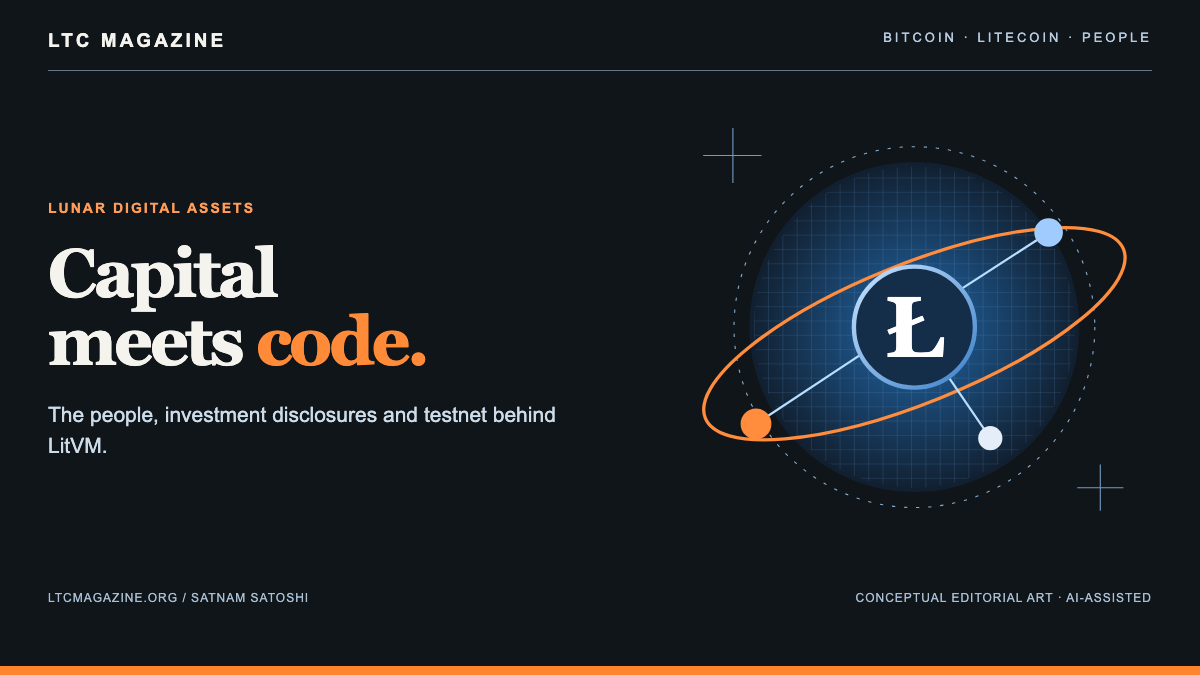
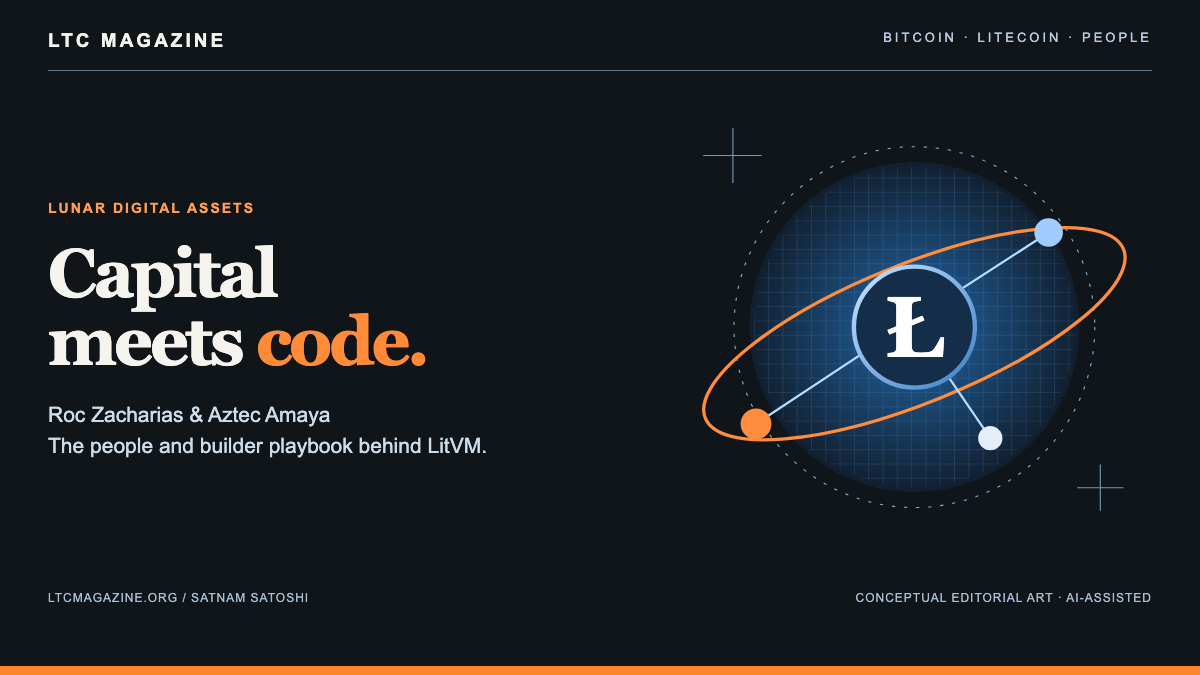
Name Roc Zacharias and Aztec Amaya together on Lunar cover

Changed region(s): [[0.0308, 0.5911, 0.4625, 0.6844]]

diff --git a/public/conversations/specials/lunar-digital-assets/index.html b/public/conversations/specials/lunar-digital-assets/index.html
@@ -1,8 +1,8 @@
-<!doctype html><html lang="en"><head><meta charset="utf-8"><meta name="viewport" content="width=device-width,initial-scale=1"><title>Capital Meets Code | LTC Magazine</title><link rel="canonical" href="https://ltcmagazine.org/conversations/specials/lunar-digital-assets/"><meta name="description" content="Lunar Digital Assets, LitVM and Luxxfolio: the people, disclosed capital and testnet evidence behind a Litecoin builder ecosystem."><meta property="og:title" content="Capital Meets Code — Lunar Digital Assets"><meta property="og:image" content="https://ltcmagazine.org/magazine/lunar-digital-assets/cover.png">
+<!doctype html><html lang="en"><head><meta charset="utf-8"><meta name="viewport" content="width=device-width,initial-scale=1"><title>Capital Meets Code | LTC Magazine</title><link rel="canonical" href="https://ltcmagazine.org/conversations/specials/lunar-digital-assets/"><meta name="description" content="Lunar Digital Assets, LitVM and Luxxfolio: the people, disclosed capital and testnet evidence behind a Litecoin builder ecosystem."><meta property="og:title" content="Capital Meets Code — Lunar Digital Assets"><meta property="og:image" content="https://ltcmagazine.org/magazine/lunar-digital-assets/cover.png?v=roc-aztec">
 <style>
 *{box-sizing:border-box}html{scroll-padding-top:4rem}body{margin:0;background:#f4f3ed;color:#141b21;font:17px/1.65 system-ui,sans-serif}a{color:#174e91;text-underline-offset:.18em}a:focus-visible{outline:3px solid #c24a00;outline-offset:4px}.skip{position:absolute;left:1rem;top:-10em}.skip:focus{top:1rem;background:#fff;padding:.5rem;z-index:3}.wrap{width:min(1100px,calc(100% - 40px));margin:auto}.hero{background:#10151a;color:#fff;overflow:hidden;border-bottom:8px solid #ff852c}.mast{display:flex;justify-content:space-between;gap:16px;padding:21px 0;border-bottom:1px solid #536170}.mast strong{font-size:1.15rem;letter-spacing:.12em}.mast small,.label{font-weight:750;letter-spacing:.12em;text-transform:uppercase;font-size:.78rem}.mast small{color:#b5cce6}.cover{position:relative;display:grid;grid-template-columns:1.25fr 1fr;gap:16px;align-items:center;padding:clamp(40px,8vw,104px) 0}.hero .label{color:#ff9d58}.cover h1{font:800 clamp(3.3rem,9vw,8rem)/.87 Georgia,serif;letter-spacing:-.065em;margin:18px 0 28px}.cover h1 em{color:#ff8a37;font-style:normal}.cover p{font:1.15rem/1.55 system-ui;max-width:35ch;color:#d1dfed}.cover svg{width:100%;max-width:465px;margin:auto}.byline{color:#c3d5e9;font-size:.83rem}.tabs{border-bottom:1px solid #c4cbd2;background:#fff}.tabs .wrap{display:flex;flex-wrap:wrap;gap:8px 24px;padding:12px 0}.tabs a{font-weight:750;font-size:.86rem}.story{padding:34px 0 65px}.lead{max-width:47ch;font:clamp(1.45rem,3vw,2.05rem)/1.35 Georgia,serif;margin:14px 0 35px}.eyebrow{font-weight:800;letter-spacing:.14em;font-size:.75rem;color:#9e3c00;text-transform:uppercase}section{padding:35px 0;border-top:1px solid #adb9c6}h2{font:800 clamp(2rem,5vw,3.7rem)/1.01 Georgia,serif;letter-spacing:-.04em;margin:.25em 0 .5em}h3{line-height:1.25;margin:.55em 0}section>p{max-width:75ch}.cards{display:grid;grid-template-columns:repeat(3,1fr);gap:12px;margin:23px 0}.card{padding:17px;background:#fff;border:1px solid #cad1da;border-top:4px solid #215d9b}.card p{font-size:.94rem;margin:.55em 0}.card .label{color:#9e3c00}.line{list-style:none;padding:0;margin:18px 0}.line li{display:grid;grid-template-columns:9rem 1fr;gap:12px;padding:12px 0;border-bottom:1px solid #ccd3d9}.line time{color:#164d84;font-weight:780}.callout{background:#11273d;color:#f2f7ff;padding:24px;border-left:6px solid #ff8d3d;margin:22px 0}.callout a{color:#b9dbff}.flow{display:flex;flex-wrap:wrap;gap:.5rem;padding:0;list-style:none;align-items:center}.flow li{background:#e3ecf7;padding:.5rem .7rem;font-weight:750}.flow li+li::before{content:"→ ";color:#963d08}footer{padding:22px 0;background:#10151a;color:#c8d8e7;font-size:.85rem}.notes{border:2px dashed #a66b3b;padding:18px;background:#ffefdf;margin:24px 0}.notes ul{padding-left:1.3em}@media(max-width:720px){.cover,.cards{grid-template-columns:1fr}.cover{gap:0}.cover svg{width:74%;max-width:330px}.mast{align-items:center}.line li{grid-template-columns:1fr;gap:0}.wrap{width:calc(100% - 32px)}}@media print{.tabs,.skip{display:none}.hero{print-color-adjust:exact;-webkit-print-color-adjust:exact}section,.card{break-inside:avoid}}
 </style></head><body><a class="skip" href="#main">Skip to story</a>
-<header class="hero"><div class="wrap"><div class="mast"><strong>LTC MAGAZINE</strong><small>Special edition · November 19, 2026</small></div><div class="cover"><div><div class="label">The Litecoin Meta / Builder Profile</div><h1>Capital<br>meets <em>code.</em></h1><p>How Roc Zacharias and Lunar Digital Assets brought a Polygon-era playbook to LitVM, and why Luxxfolio backed it.</p><div class="byline">LTC Magazine Research Desk · November 19, 2026</div></div>
+<header class="hero"><div class="wrap"><div class="mast"><strong>LTC MAGAZINE</strong><small>Special edition · November 19, 2026</small></div><div class="cover"><div><div class="label">The Litecoin Meta / Builder Profile</div><h1>Capital<br>meets <em>code.</em></h1><p>How Roc Zacharias, Aztec Amaya and Lunar Digital Assets brought a Polygon-era playbook to LitVM, and why Luxxfolio backed it.</p><div class="byline">LTC Magazine Research Desk · November 19, 2026</div></div>
 <svg viewBox="0 0 440 410" aria-hidden="true" focusable="false"><defs><radialGradient id="g"><stop stop-color="#2268aa"/><stop offset="1" stop-color="#111f2f"/></radialGradient><linearGradient id="l" x2="1" y2="1"><stop stop-color="#c8e4ff"/><stop offset="1" stop-color="#3c80c9"/></linearGradient><pattern id="p" width="13" height="13" patternUnits="userSpaceOnUse"><path d="M0 0H13M0 0V13" stroke="#80bfff" opacity=".44"/></pattern></defs><circle cx="224" cy="201" r="150" fill="url(#g)"/><circle cx="224" cy="201" r="146" fill="url(#p)" opacity=".52"/><circle cx="224" cy="201" r="164" fill="none" stroke="#88aecf" stroke-dasharray="3 8"/><ellipse cx="224" cy="207" rx="205" ry="63" transform="rotate(-22 224 207)" fill="none" stroke="#ff8d3d" stroke-width="3"/><path d="M80 289L213 201 346 115M224 201L293 302" fill="none" stroke="#b8deff" stroke-width="2"/><circle cx="224" cy="201" r="55" fill="#142d49" stroke="url(#l)" stroke-width="4"/><text x="224" y="228" text-anchor="middle" fill="#fff" font-size="78" font-family="Georgia,serif" font-weight="bold">Ł</text><circle cx="80" cy="289" r="14" fill="#ff8d3d"/><circle cx="346" cy="115" r="13" fill="#9fcbff"/><circle cx="293" cy="302" r="11" fill="#e4edf8"/><path d="M32 45h53m-26-25v50m313 277h42m-21-21v42" stroke="#759ac1" stroke-width="1"/></svg></div></div></header>
 <nav class="tabs" aria-label="Chapters"><div class="wrap"><a href="/conversations/">← Magazine</a><a href="/conversations/specials/litecoin-to-the-moon/">Moon special</a><a href="#people">The people</a><a href="#timeline">Timeline</a><a href="#capital">Follow the capital</a><a href="#tech">What shipped</a><a href="#builders">The builder pipeline</a><a href="#proof">What to verify</a></div></nav>
 <main class="wrap story" id="main"><p class="lead">The clearest link between Lunar and Luxxfolio runs through LitVM. Lunar helped bring the project into the open and is helping recruit builders. Luxxfolio disclosed an investment in it. The public record still leaves two questions unanswered: what Luxxfolio bought, and what LitVM can safely deliver on mainnet.</p>

diff --git a/app/components/LunarHomeFeature.tsx b/app/components/LunarHomeFeature.tsx
@@ -1,1 +1,1 @@
-export default function LunarHomeFeature(){return <section aria-labelledby="lunar-feature-title" className="lunar-feature"><style>{`.lunar-feature{background:#10151a;color:#f4f3ed;padding:clamp(25px,5vw,65px);display:grid;grid-template-columns:1fr 1fr;align-items:center;gap:35px;border-bottom:7px solid #ff852c}.lunar-feature .kicker{font:700 12px Arial,sans-serif;letter-spacing:.12em;text-transform:uppercase;color:#ff9d58}.lunar-feature h2{font:800 clamp(40px,5.5vw,78px)/.98 Georgia,serif;letter-spacing:-.04em;margin:18px 0;color:#fff}.lunar-feature h2 em{color:#ff8a37;font-style:normal}.lunar-feature p{color:#cbdcea;max-width:50ch;line-height:1.65}.lunar-feature a{color:#c4e1ff;text-underline-offset:5px}.lunar-feature img{width:100%;height:auto;border:1px solid #536170}.lunar-feature a:focus-visible{outline:3px solid #ff852c;outline-offset:5px}@media(max-width:700px){.lunar-feature{grid-template-columns:1fr}.lunar-feature h2{font-size:48px}}`}</style><div><p className="kicker">New special / November 19, 2026</p><h2 id="lunar-feature-title">Capital meets<br/><em>code.</em></h2><p>Lunar Digital Assets, the people behind LitVM and Luxxfolio’s disclosed investment. Follow the capital, read the testnet status and ask what comes next.</p><a href="/conversations/specials/lunar-digital-assets/">Read the Lunar Digital Assets special ↗</a></div><a href="/conversations/specials/lunar-digital-assets/" aria-label="Read Capital Meets Code"><img src="/magazine/lunar-digital-assets/cover.png" alt="Capital Meets Code. A conceptual silver Litecoin orbit in orange and blue." width="1200" height="675"/></a></section>}
+export default function LunarHomeFeature(){return <section aria-labelledby="lunar-feature-title" className="lunar-feature"><style>{`.lunar-feature{background:#10151a;color:#f4f3ed;padding:clamp(25px,5vw,65px);display:grid;grid-template-columns:1fr 1fr;align-items:center;gap:35px;border-bottom:7px solid #ff852c}.lunar-feature .kicker{font:700 12px Arial,sans-serif;letter-spacing:.12em;text-transform:uppercase;color:#ff9d58}.lunar-feature h2{font:800 clamp(40px,5.5vw,78px)/.98 Georgia,serif;letter-spacing:-.04em;margin:18px 0;color:#fff}.lunar-feature h2 em{color:#ff8a37;font-style:normal}.lunar-feature p{color:#cbdcea;max-width:50ch;line-height:1.65}.lunar-feature a{color:#c4e1ff;text-underline-offset:5px}.lunar-feature img{width:100%;height:auto;border:1px solid #536170}.lunar-feature a:focus-visible{outline:3px solid #ff852c;outline-offset:5px}@media(max-width:700px){.lunar-feature{grid-template-columns:1fr}.lunar-feature h2{font-size:48px}}`}</style><div><p className="kicker">New special / November 19, 2026</p><h2 id="lunar-feature-title">Capital meets<br/><em>code.</em></h2><p>Roc Zacharias, Aztec Amaya and Lunar Digital Assets: the people behind LitVM and Luxxfolio’s disclosed investment. Follow the capital, read the testnet status and ask what comes next.</p><a href="/conversations/specials/lunar-digital-assets/">Read the Lunar Digital Assets special ↗</a></div><a href="/conversations/specials/lunar-digital-assets/" aria-label="Read Capital Meets Code"><img src="/magazine/lunar-digital-assets/cover.png?v=roc-aztec" alt="Capital Meets Code. Roc Zacharias and Aztec Amaya. A conceptual silver Litecoin orbit in orange and blue." width="1200" height="675"/></a></section>}
